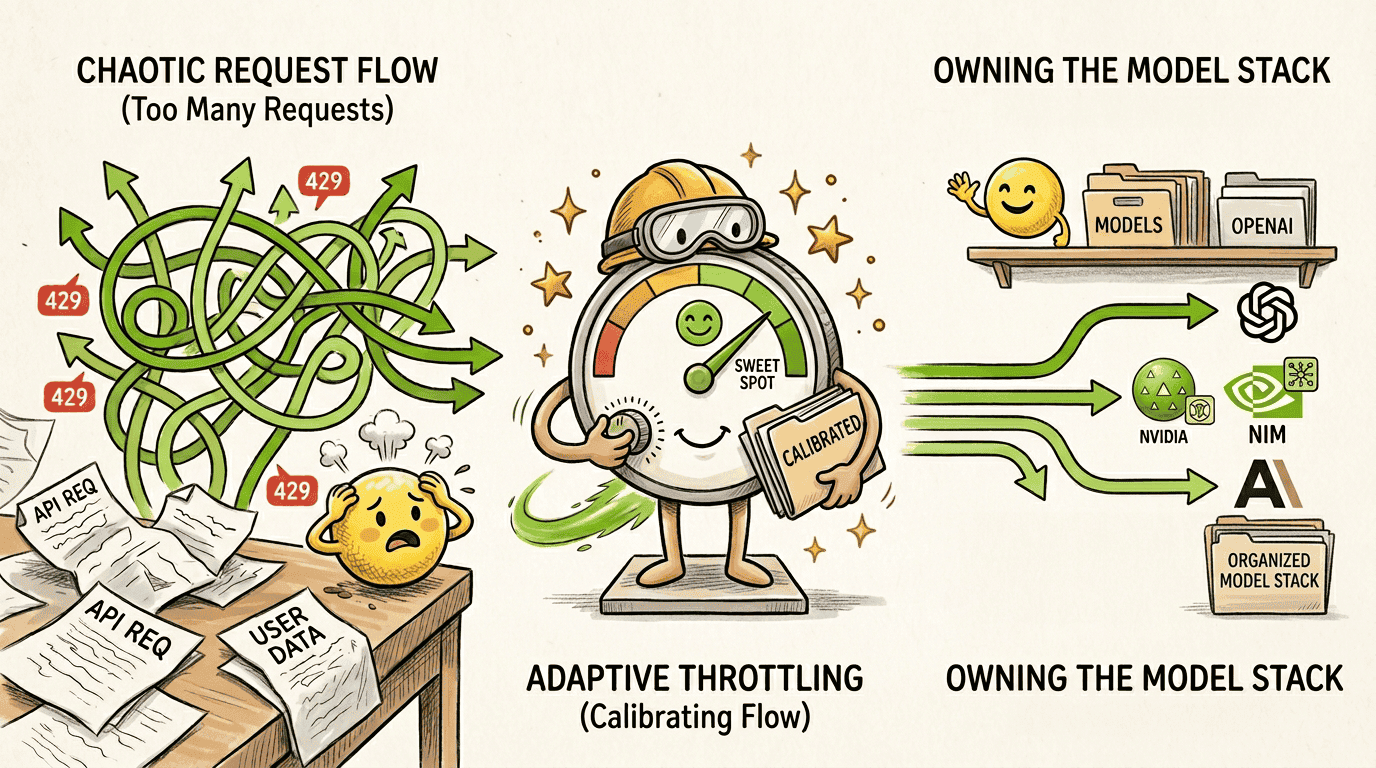
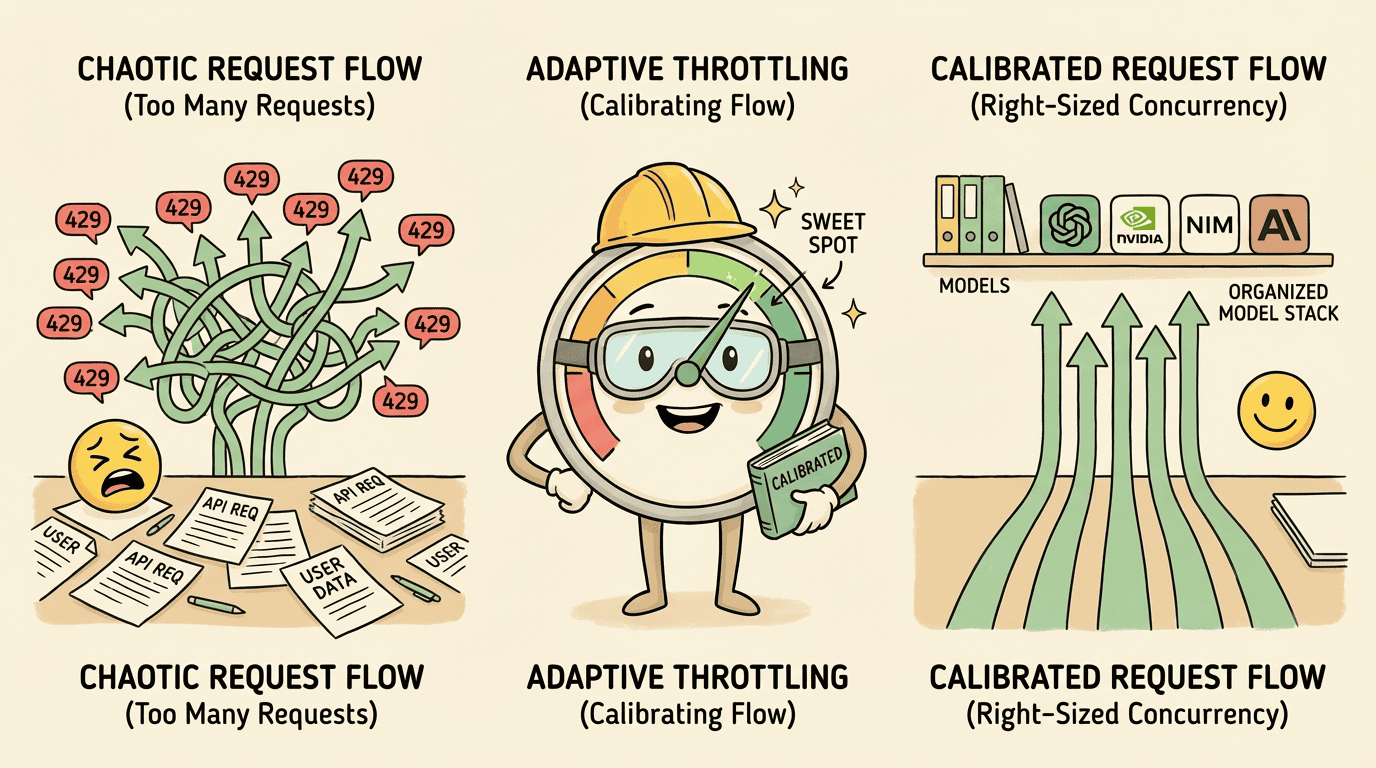
update dev notes

diff --git a/docs/devnotes/posts/owning-the-model-stack.md b/docs/devnotes/posts/owning-the-model-stack.md
@@ -6,21 +6,21 @@ authors:
 
 # **Owning the Model Stack: Adaptive Concurrency FTW!**
 
-Picture this: you're generating a million-record dataset. Twenty concurrent requests per model, three models in the pipeline, two providers. Everything hums along for the first ten minutes — then one provider starts returning 429s, your retry logic kicks in, and suddenly you're in a feedback loop where retries *cause* more 429s. The run stalls. You restart with lower concurrency, waste throughput for hours, and wonder if there's a better way.
+Picture this: you're generating a million-record dataset. Thirty two concurrent requests per model, three models in the pipeline, two providers. Everything hums along for the first ten minutes — then one provider starts returning 429s, your retry logic kicks in, and suddenly you're in a feedback loop where retries *cause* more 429s. The run stalls. You restart with lower concurrency, waste throughput for hours, and wonder if there's a better way.
 
-There is. This post is about the native model client layer we built to replace LiteLLM in Data Designer, with adaptive throttling (a system that discovers provider capacity at runtime) as the centerpiece.
+There is. This post is about the native model client layer we built with adaptive throttling (a system that discovers provider capacity at runtime) replacing our dependency on LiteLLM along the way.
 
 <!-- more -->
 
-![Owning the Model Stack: from opaque dependency to transparent, controllable client layer](assets/owning-the-model-stack/native-model-client-hero.png)
+![From chaotic request flow to calibrated concurrency via adaptive throttling](assets/owning-the-model-stack/native-model-client-hero.png)
 
 ## **Why We Made the Move**
 
 LiteLLM gave us a fast path to multi-provider support early on: "just call any model" without writing HTTP adapters from scratch. As Data Designer's workloads scaled to millions of records across multiple models and providers, we wanted more control over what happens between our orchestrator and the provider API.
 
-The biggest opportunity was **adaptive concurrency**. When you start hitting rate limits at scale, you don't want to just retry. You want the system to *learn* the provider's actual capacity and adjust on the fly. That adaptation needs to be aware of your pipeline's topology. Which models share an endpoint? Which routes share a rate-limit budget? How do sync and async callers interact? Building that required owning the transport layer.
+The biggest opportunity was **adaptive concurrency**. When you start hitting rate limits at scale, you don't want to just retry. You want the system to *learn* the provider's actual capacity and adjust on the fly. That adaptation needs to be aware of your pipeline's topology. Which models share an endpoint? Which routes share a rate-limit budget? Building that required owning the transport layer.
 
-We also saw a chance to simplify. We were only using a slice of what LiteLLM provides (a general-purpose multi-provider gateway when we only target a couple of API formats). A purpose-built stack meant less surface area, faster startup, and a transport lifecycle we could reason about end to end.
+We also saw a chance to simplify. We were only using a slice of what LiteLLM provides. A purpose-built stack meant less surface area, faster startup, and a transport lifecycle we could reason about end to end.
 
 So we built a native client layer. Thin HTTP adapters with adaptive rate-limit handling, deterministic retry policy, and canonical error normalization. The rest of this post walks through how it works.
 
@@ -28,17 +28,17 @@ So we built a native client layer. Thin HTTP adapters with adaptive rate-limit h
 
 The replacement is a layered stack where each layer does one thing. `ModelFacade`, the public orchestration surface that column generators call, didn't change at all. Everything below it is new.
 
-![Native model client architecture: five layers from ModelFacade down to provider HTTP APIs](assets/owning-the-model-stack/native-model-client-layers.png){ style="max-width:100%; height:auto" }
+![Native model client architecture: five layers from ModelFacade down to provider HTTP APIs](assets/owning-the-model-stack/native-model-client-layers.png){ style="max-width:75%; height:auto" }
 
 From top to bottom:
 
 1. **ModelFacade**: orchestrates correction loops, MCP tool-calling, and usage tracking. This is the public API. Column generators talk to this layer, and it was untouched during the migration. If you've written a Data Designer pipeline, nothing about your code changes.
 
-2. **ThrottledModelClient**: the new layer. Wraps every outbound HTTP call with a throttle permit: acquire a concurrency slot before the call, release it after, and feed the outcome (success, 429, or error) back to the AIMD controller. This is where adaptive throttling lives, and it's the reason we did all of this.
+2. **ThrottledModelClient**: the new layer. It's a decorator around `HttpModelClient` — same `ModelClient` protocol, but every outbound call is wrapped with a throttle permit: acquire a concurrency slot before the call, release it after, and feed the outcome (success, 429, or error) back to `ThrottleManager`, the AIMD controller. This is where adaptive throttling lives.
 
-3. **HttpModelClient**: shared `httpx` transport with retry logic. Connection pooling, timeouts, and transport-level retries for transient failures (502, 503, 504). Boring but important.
+3. **HttpModelClient**: an abstract base class that defines the interface for all provider adapters. It owns the shared `httpx` transport lifecycle — connection pooling, timeouts, and transport-level retries for transient failures (502, 503, 504). Boring but important.
 
-4. **Provider Adapters**: `OpenAICompatibleClient` and `AnthropicClient`. Each adapter translates between our canonical request/response types and the provider's wire format. Provider-specific shapes are contained here and never leak upward.
+4. **Provider Adapters**: `OpenAICompatibleClient` and `AnthropicClient`, both extending `HttpModelClient`. Each adapter translates between our canonical request/response types and the provider's wire format. Provider-specific shapes are contained here and never leak upward.
 
 5. **Provider HTTP APIs**: the actual endpoints (OpenAI, NVIDIA NIM, vLLM, Anthropic Messages API).
 
@@ -56,7 +56,7 @@ What you actually want is a system that *discovers* the provider's capacity at r
 
 ### **AIMD: Additive Increase / Multiplicative Decrease**
 
-If you've studied networking, this will sound familiar. AIMD is the algorithm behind TCP congestion control. We apply the same idea to LLM API concurrency:
+If you've studied networking, this will sound familiar. [AIMD](https://en.wikipedia.org/wiki/Additive_increase/multiplicative_decrease) is the algorithm behind TCP congestion control. We apply the same idea to LLM API concurrency:
 
 - **On success**: after a window of consecutive successful requests (default: 25), increase the concurrency limit by 1. Slow, cautious growth.
 - **On 429**: multiply the current limit by a reduce factor (default: 0.75, a 25% cut). Fast, decisive pullback. Then apply a cooldown using the provider's `Retry-After` header when available, or a default of 2 seconds.
@@ -65,7 +65,7 @@ The asymmetry is deliberate. You probe upward slowly because overshooting wastes
 
 The result is that the system converges on the provider's actual capacity without you setting it. It starts at your configured `max_parallel_requests`, discovers the real limit through 429 signals, and settles into a steady state that tracks the provider's capacity as it changes.
 
-![AIMD concurrency control over time: initial phase, 429 drop, recovery, ceiling stabilization, steady state](assets/owning-the-model-stack/aimd-concurrency-over-time.png){ style="max-width:100%; height:auto" }
+![AIMD concurrency control over time: initial phase, 429 drop, recovery, ceiling stabilization, steady state](assets/owning-the-model-stack/aimd-concurrency-over-time.png){ style="max-width:75%; height:auto" }
 
 This is especially useful when you're self-hosting your inference stack (running vLLM or NVIDIA NIM on your own hardware) as long as the serving framework returns 429s when it's at capacity. The capacity of a self-hosted endpoint depends on your GPU count, model size, quantization, batch settings, and whatever else is sharing the cluster. That capacity might change between runs, or even mid-run if other workloads spin up. If your serving layer signals overload with 429s, you don't need to figure any of that out. Point Data Designer at your endpoint, set `max_parallel_requests` to a generous upper bound, and the system self-adjusts to whatever your infrastructure can actually handle.
 
@@ -81,21 +81,13 @@ Here's a subtlety that bit us during testing. When the system is running at capa
 
 **Cascade dampening** fixes this. Only the first 429 in a burst triggers a decrease. Subsequent 429s in the same cascade are counted (for observability) but don't further reduce the limit. The cascade resets on the next successful request. Simple, but it makes the difference between a graceful pullback and a collapse.
 
-### **Per-request lifecycle**
-
-Every outbound HTTP call (chat completion, embedding, image generation) follows the same lifecycle through the throttle system:
-
-![AIMD per-request lifecycle: acquire, call, branch on success/429/error, release](assets/owning-the-model-stack/aimd-lifecycle.png){ style="max-width:100%; height:auto" }
-
-`ThrottledModelClient` wraps the inner `ModelClient` and implements this as a context manager. `acquire` before the call, then `release_success`, `release_rate_limited`, or `release_failure` in the `finally` block. No throttle permits leak, even on unexpected exceptions. The pattern is simple enough that there's really only one way to get it wrong (forgetting the `finally`), and the wrapper makes that impossible.
-
 ### **Two-level keying**
 
 Real pipelines aren't simple. A single provider+model combination might serve chat completions, embeddings, and image generation, potentially on different rate-limit budgets. And multiple model aliases in your pipeline might point to the same underlying provider and model (say, one alias for generation and another for judging, both hitting the same NVIDIA endpoint).
 
 The throttle manager handles this with two-level keying:
 
-![Two-level throttle keying: global cap per provider+model, independent domain states for chat, embedding, image](assets/owning-the-model-stack/throttle-keying.png){ style="max-width:100%; height:auto" }
+![Two-level throttle keying: global cap per provider+model, independent domain states for chat, embedding, image](assets/owning-the-model-stack/throttle-keying.png){ style="max-width:75%; height:auto" }
 
 - **Global cap**: keyed by `(provider_name, model_id)`. When multiple model aliases target the same provider and model, the effective max is `min()` of their configured `max_parallel_requests`. This enforces the most conservative limit for shared upstream capacity, because the provider doesn't care what you *call* the model, it sees the same API key.
 
@@ -111,11 +103,13 @@ The transport layer (via `httpx` with `RetryTransport`) handles transient server
 
 But **429 is explicitly excluded from transport retries**.
 
-![Retry boundary: 502/503/504 retried at transport, 429 passed through to ThrottledModelClient for AIMD feedback](assets/owning-the-model-stack/retry-boundary.png){ style="max-width:100%; height:auto" }
+![Retry boundary: 502/503/504 retried at transport, 429 passed through to ThrottledModelClient for AIMD feedback](assets/owning-the-model-stack/retry-boundary.png){ style="max-width:75%; height:auto" }
 
 Why? Because if the retry layer swallows 429s, the throttle manager never learns the provider is overloaded. The whole AIMD feedback loop depends on seeing raw rate-limit signals. A 429 must bubble up to `ThrottledModelClient` so it can call `release_rate_limited()`, cut the concurrency limit, apply the cooldown, and record the ceiling. The next attempt then re-enters the throttle acquire path, waiting for a permit, before making another HTTP call.
 
-The split is clean and worth remembering. Transport retries handle *server problems* (the provider is temporarily broken). Throttle adaptation handles *capacity problems* (the provider is working fine, you're just sending too much). Conflating the two is how you get retry storms.
+The split is clean and worth remembering. Transport retries handle *server problems*. Throttle adaptation handles *capacity problems*. The provider is working fine, you're just sending too many. Conflating the two is how you get retry storms.
+
+One caveat: this boundary behaves differently depending on the execution mode. In async mode (currently experimental, enabled with `DATA_DESIGNER_ASYNC_ENGINE=1`), 429s bypass transport retries entirely and flow straight to `ThrottledModelClient` for AIMD feedback — this is the full adaptive loop described above. In sync mode, 429s are retried at the transport layer since there's no salvage queue to re-attempt failed rows. AIMD is still wired up but only fires if all transport retries are exhausted. This is temporary — once the async engine graduates from experimental, it will become the default path and the sync codepath will be retired. Stay tuned for a dedicated dev note on the async engine.
 
 ## **Configuration**
 
@@ -128,7 +122,17 @@ import data_designer.config as dd
 from data_designer.interface import DataDesigner
 
 data_designer = DataDesigner()
-config = dd.DataDesignerConfigBuilder(
+data_designer.set_run_config(
+    dd.RunConfig(
+        throttle=dd.ThrottleConfig(
+            reduce_factor=0.75,
+            success_window=25,
+            cooldown_seconds=2.0,
+            ceiling_overshoot=0.10,
+        )
+    )
+)
+config_builder = dd.DataDesignerConfigBuilder(
     model_configs=[
         dd.ModelConfig(
             alias="reasoning-model",
@@ -140,16 +144,8 @@ config = dd.DataDesignerConfigBuilder(
 )
 
 result = data_designer.create(
-    config=config.build(),
-    run_config=dd.RunConfig(
-        throttle=dd.ThrottleConfig(
-            reduce_factor=0.75,
-            success_window=25,
-            cooldown_seconds=2.0,
-            ceiling_overshoot=0.10,
-        ),
-    ),
-    n=10_000,
+    config_builder,
+    num_records=10_000,
 )
 ```
 
@@ -165,13 +161,36 @@ In practice, the parameter most worth adjusting is `success_window`. A smaller w
 
 Most users will never need to touch any of these. The system adapts automatically.
 
+## **What It Looks Like in the Logs**
+
+`ThrottleManager` logs every state transition at `INFO` level, so the adaptation story is visible in your terminal as the run progresses.
+
+```
+# When the system hits a 429 and cuts concurrency:
+🪫📉 'nvidia/nemotron-3-super-120b-a12b' [chat] server rate-limited — concurrency reduced from 20 → 15 (retrying in 2s)
+
+# If the provider's capacity is lower than a previously observed ceiling, the log includes the estimated server limit:
+🪫📉 'nvidia/nemotron-3-super-120b-a12b' [chat] server rate-limited at 15 (server limit ~12) — concurrency reduced to 11 (retrying in 2s)
+
+# As successes accumulate and the limit climbs back:
+🪫📈🔥 'nvidia/nemotron-3-super-120b-a12b' [chat] concurrency increased from 11 → 12
+
+# When the limit reaches the ceiling band:
+🔋✅ 'nemotron-3-super-120b-a12b' [chat] concurrency recovered to 13 parallel requests
+
+# And if no 429s have been observed and the limit reaches the configured max:
+🔋✅ 'nemotron-3-super-120b-a12b' [chat] concurrency fully recovered (20 parallel requests)
+```
+
+Reading these lines in sequence tells you exactly what happened: where the system started, when it hit the wall, how far it pulled back, and how it recovered. No guessing, no metrics pipeline required.
+
 ## **Where This Leaves Us**
 
-This shipped in Data Designer v0.5.4. If you're using Data Designer today, nothing changes in your pipeline code. `ModelFacade` is the same API it's always been. What changes is what happens underneath. The system now discovers provider capacity at runtime, isolates throttle state per route, and separates retry logic from rate-limit adaptation. Adaptive throttling is enabled by default for all providers. You don't opt in or configure anything; it just starts learning.
+This shipped in Data Designer v0.5.4. If you're using Data Designer today, nothing changes in your pipeline code. `ModelFacade` is the same API it's always been. What changes is what happens underneath. The system now discovers provider capacity at runtime, isolates throttle state per route, and separates retry logic from rate-limit adaptation. Adaptive throttling is enabled by default for all providers. You don't opt in or configure anything; it just starts learning. If you want to see this fully in action, turn on async mode — it's experimental today, but soon to be stable.
 
 For most workloads, the defaults are all you need. Set `max_parallel_requests` to a generous upper bound and let AIMD find the right level. If you're running against a self-hosted stack that returns 429s, the system adapts to your hardware without any tuning. If you want finer control, `ThrottleConfig` is there, but the goal is that you shouldn't have to think about it.
 
-The broader takeaway is about when to own versus when to depend. LiteLLM is a good tool. It solves the general problem of calling many providers through one interface. We replaced it not because it was broken, but because our workload needed something it wasn't designed for: adaptive, topology-aware concurrency control at the transport level. Once that became the bottleneck, owning the stack was the simpler path.
+The goal is that you spend your time designing datasets, not tuning concurrency knobs. The system handles the transport-level complexity so you don't have to think about it.
 
 Key Resources:
 
